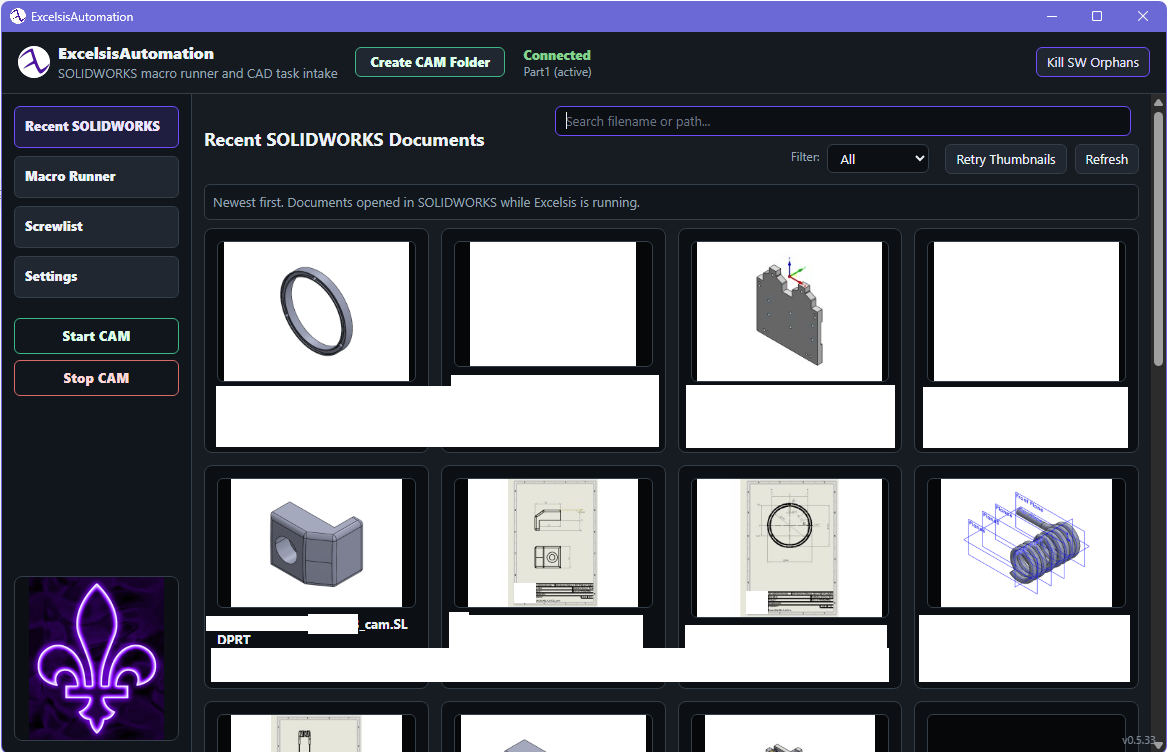
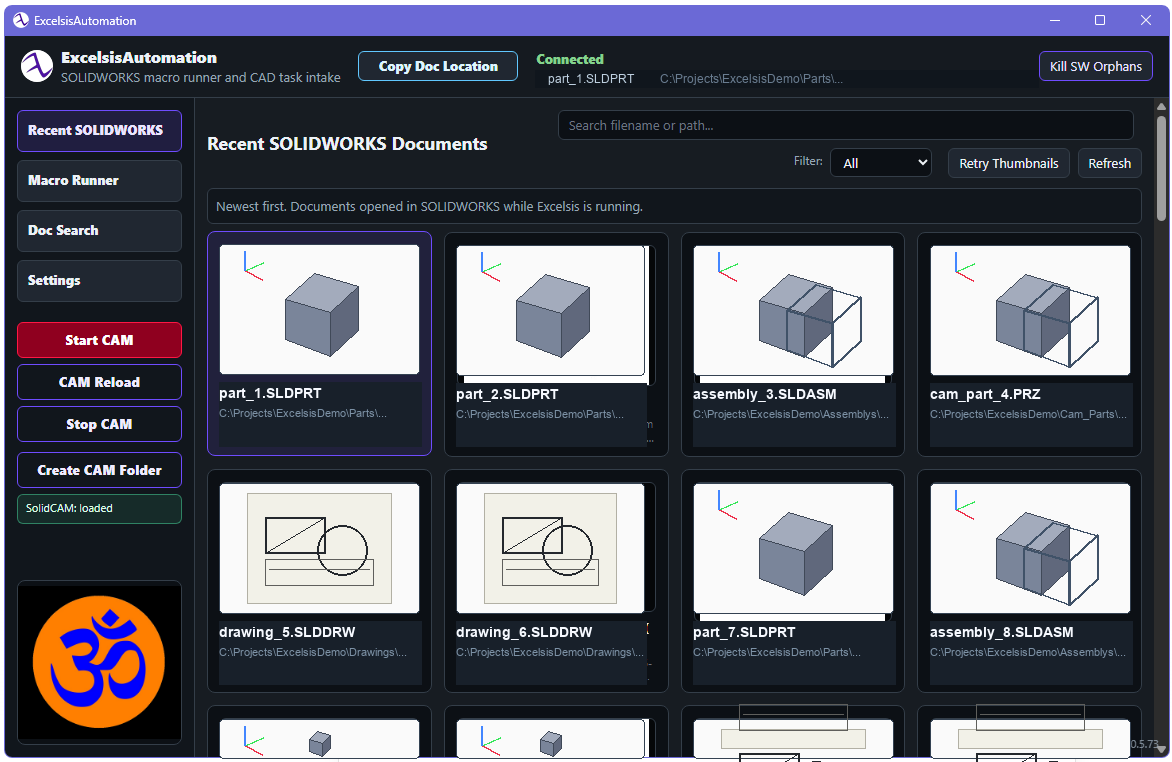
Update Automation release to 0.5.73

diff --git a/index.html b/index.html
@@ -6,7 +6,7 @@
     <title>ExcelsisAutomation | Automation, DXF Viewer, and Excelsis3D Plans</title>
     <meta
       name="description"
-      content="ExcelsisAutomation connects to SOLIDWORKS, tracks recent documents, runs local CAD macros, provides a separate DXF viewer/editor, and links to the Excelsis3D open CAD plan."
+      content="ExcelsisAutomation is a Windows companion app for SOLIDWORKS and SolidCAM: recent documents, Doc Search, macro running, CAM helpers, and a separate DXF viewer/editor."
     >
     <link rel="stylesheet" href="styles.css">
   </head>
@@ -36,12 +36,12 @@
           <p class="eyebrow">SOLIDWORKS automation and DXF workflow</p>
           <h1 id="hero-title">Excelsis Automation</h1>
           <p class="hero-copy">
-            Two local CAD utilities: one for SOLIDWORKS-connected automation,
-            macro running, document search, and CAM helpers; one focused DXF
-            viewer/editor for checking and cleaning manufacturing geometry.
+            A Windows companion for SOLIDWORKS and SolidCAM work: keep recent
+            documents close, find related engineering files, run shop macros,
+            create CAM folders, control the CAM add-in, and review DXF output.
           </p>
           <div class="hero-actions" aria-label="Page sections">
-            <a class="button primary" href="https://github.com/simonsystem609/ExcelsisAutomation/raw/main/downloads/ExcelsisAutomation-0.5.69-release.zip">Download Automation 0.5.69</a>
+            <a class="button primary" href="https://github.com/simonsystem609/ExcelsisAutomation/raw/main/downloads/ExcelsisAutomation-0.5.73-release.zip">Download Automation 0.5.73</a>
             <a class="button secondary" href="https://github.com/simonsystem609/ExcelsisAutomation/raw/main/downloads/ExcelsisView-0.5.62-release.zip">Download DXF Viewer 0.5.62</a>
             <a class="button secondary" href="#excelsis3d">Excelsis3D Plans</a>
           </div>
@@ -56,33 +56,42 @@
           </div>
           <div class="compact-copy">
             <p>
-              The current Automation build is 0.5.69. While SOLIDWORKS is
-              running, it records recently opened parts, assemblies, and
-              drawings; users can search/filter the grid, reopen documents,
-              refresh or retry thumbnails, and see the active CAD session from
-              one dashboard.
+              The current Automation build is 0.5.73. It continuously checks
+              whether SOLIDWORKS is running, shows the foreground document and
+              path, copies the active document folder, and can close stray
+              SLDWORKS.exe orphan processes with diagnostic logging.
+            </p>
+            <p>
+              Recent SOLIDWORKS tracks files opened while the app is running:
+              parts, assemblies, drawings, and SolidCAM CAM-Part files. Tiles
+              can be searched, filtered, opened, refreshed, removed, or sent to
+              their containing folder, with thumbnail retry tools when Windows
+              or SOLIDWORKS does not supply a preview cleanly.
+            </p>
+            <p>
+              Doc Search indexes useful engineering files on local and network
+              locations, then searches by the active SOLIDWORKS document or a
+              typed phrase. It uses fuzzy names, numeric tokens, path hints,
+              and file-size similarity across SOLIDWORKS, SolidCAM, DXF/DWG,
+              PDF, MPF, and TXT files.
             </p>
             <p>
               Macro Runner works from <code>Documents\ExcelsisAutomation\Macros</code>
               and migrates older <code>Documents\Excelsis\Macros</code> content. It
-              runs local SWP macros, converts SWB sources to SWP, and stores
-              short descriptions for the visible macro cards.
-            </p>
-            <p>
-              Newer tools include Doc Search with type filters for SOLIDWORKS,
-              DXF/DWG, PDF, MPF, and text files; Start CAM, Stop CAM, CAM
-              Reload, and Create CAM Folder sidebar buttons; SolidCAM add-in
-              discovery; UI/BOM language settings; and safe cache controls.
+              runs local SWP macros, converts bundled SWB sources to SWP, and
+              stores short descriptions for visible macro cards. The sidebar
+              adds Start CAM, Stop CAM, CAM Reload, and Create CAM Folder
+              controls for the selected SolidCAM add-in.
             </p>
             <div class="download-grid" id="download">
               <article class="download-card">
                 <p class="download-meta">Release ZIP</p>
-                <h3>ExcelsisAutomation 0.5.69</h3>
+                <h3>ExcelsisAutomation 0.5.73</h3>
                 <p>
                   Contains the setup EXE, bundled SWB macros, and the sibling
                   Automation app module folder used by the installer.
                 </p>
-                <a class="button primary" href="https://github.com/simonsystem609/ExcelsisAutomation/raw/main/downloads/ExcelsisAutomation-0.5.69-release.zip">Download Automation ZIP</a>
+                <a class="button primary" href="https://github.com/simonsystem609/ExcelsisAutomation/raw/main/downloads/ExcelsisAutomation-0.5.73-release.zip">Download Automation ZIP</a>
               </article>
               <article class="download-card">
                 <p class="download-meta">Separate app</p>
@@ -106,6 +115,13 @@
               alt="Recent SOLIDWORKS documents grid with thumbnails, search, and filter controls"
             >
             <figcaption>Recent documents are collected from the live SOLIDWORKS session and can be searched or filtered.</figcaption>
+          </figure>
+          <figure class="screenshot-frame">
+            <img
+              src="assets/excelsis-doc-search.png"
+              alt="Doc Search results grid with file-type filter, indexed file status, and generic part and drawing tiles"
+            >
+            <figcaption>Doc Search finds similar engineering files from the active document or typed filename fragments.</figcaption>
           </figure>
           <figure class="screenshot-frame">
             <img

diff --git a/styles.css b/styles.css
@@ -268,7 +268,7 @@ h3 {
 
 .image-pair {
   display: grid;
-  grid-template-columns: repeat(2, minmax(0, 1fr));
+  grid-template-columns: repeat(3, minmax(0, 1fr));
   gap: clamp(22px, 4vw, 42px);
 }
 

diff --git a/README.md b/README.md
@@ -11,7 +11,7 @@ Static one-page GitHub Pages site for ExcelsisAutomation and ExcelsisView.
 - Separate ExcelsisView DXF viewer/editor for selection, offsets, measurement, mirror, outer-contour repair, and feature review.
 - Compact Excelsis3D planning/dev-help section on the same scroll page.
 - Current release ZIPs:
-  - `downloads/ExcelsisAutomation-0.5.69-release.zip`
+  - `downloads/ExcelsisAutomation-0.5.73-release.zip`
   - `downloads/ExcelsisView-0.5.62-release.zip`
 - Excelsis3D development Discord invite: `https://discord.gg/uJrSBQm68`.
 - GPL-3.0 license text in `LICENSE`.
@@ -28,9 +28,10 @@ directly.
 - `styles.css` - responsive styling.
 - `script.js` - tiny header behavior.
 - `assets/excelsis-recent-documents.png` - recent documents screenshot.
+- `assets/excelsis-doc-search.png` - Doc Search screenshot.
 - `assets/excelsis-macro-runner.png` - macro runner screenshot.
 - `assets/excelsis-dxf-viewer.png` - DXF viewer screenshot.
-- `downloads/ExcelsisAutomation-0.5.69-release.zip` - Automation installer folder ZIP.
+- `downloads/ExcelsisAutomation-0.5.73-release.zip` - Automation installer folder ZIP.
 - `downloads/ExcelsisView-0.5.62-release.zip` - DXF viewer installer folder ZIP.
 - `.gitattributes` - tracks release ZIPs with Git LFS.
 - `.nojekyll` - tells GitHub Pages to publish the static files as-is.